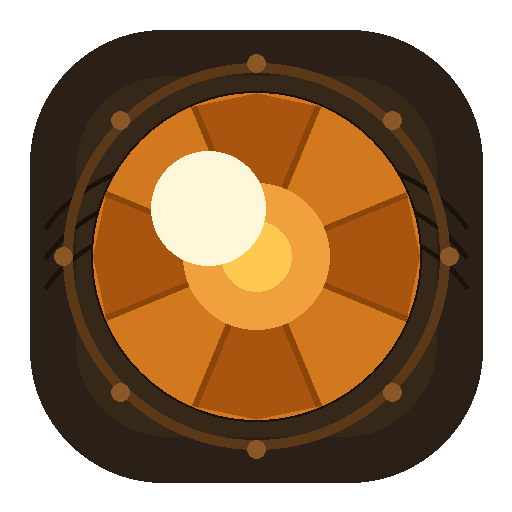
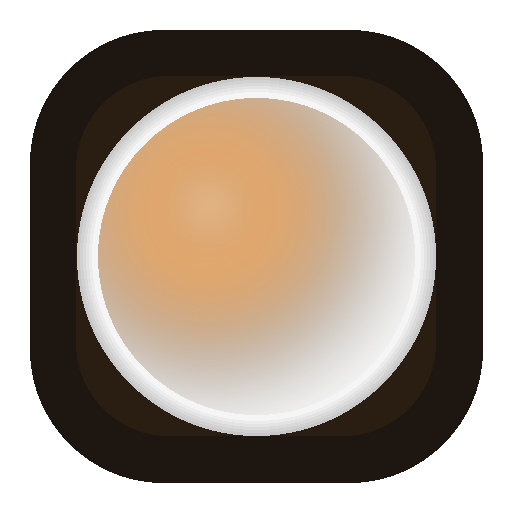
Add files via upload

diff --git a/app.js b/app.js
@@ -73,86 +73,51 @@ onSnapshot(collection(db, COL), snapshot => {
 
 function getProject(id){ return projects.find(p => p.id === id); }
 
-// ── GEM DRAWING — pietra grezza incastonata, stile Legend of Dragoon ──
+// ── GEM DRAWING — sfera cristallo incastonata ──
 function drawGem(canvas, hex){
-  const s=canvas.width;
-  const ctx=canvas.getContext('2d');
-  const cx=s/2, cy=s/2, r=s/2-1;
-  const {r:cr,g:cg,b:cb}=hexToRgb(hex);
+  const s = canvas.width;
+  const ctx = canvas.getContext('2d');
+  const cx = s/2, cy = s/2;
+  const {r:cr, g:cg, b:cb} = hexToRgb(hex);
+  const gr = s/2 * 0.78;
 
-  // Incastonatura in pietra — bordo irregolare scuro, non metallico
-  ctx.beginPath(); ctx.arc(cx,cy,r,0,Math.PI*2);
-  const stone=ctx.createRadialGradient(cx-r*.1,cy-r*.1,r*.55,cx,cy,r);
-  stone.addColorStop(0,'rgba(0,0,0,0)');
-  stone.addColorStop(0.72,`rgba(${Math.max(0,cr-90)},${Math.max(0,cg-90)},${Math.max(0,cb-90)},.55)`);
-  stone.addColorStop(0.88,`rgba(${Math.max(0,cr-120)},${Math.max(0,cg-120)},${Math.max(0,cb-120)},.85)`);
-  stone.addColorStop(1,'rgba(20,14,8,.95)');
-  ctx.fillStyle=stone; ctx.fill();
+  // Corpo cristallo — traslucido
+  const sphere = ctx.createRadialGradient(
+    cx - gr*.28, cy - gr*.30, gr*.04,
+    cx + gr*.12, cy + gr*.18, gr
+  );
+  sphere.addColorStop(0,    `rgba(${Math.min(255,cr+90)},${Math.min(255,cg+85)},${Math.min(255,cb+75)},.55)`);
+  sphere.addColorStop(0.28, `rgba(${cr},${cg},${cb},.50)`);
+  sphere.addColorStop(0.65, `rgba(${Math.max(0,cr-40)},${Math.max(0,cg-38)},${Math.max(0,cb-30)},.60)`);
+  sphere.addColorStop(1,    `rgba(${Math.max(0,cr-70)},${Math.max(0,cg-65)},${Math.max(0,cb-55)},.70)`);
+  ctx.beginPath(); ctx.arc(cx, cy, gr, 0, Math.PI*2);
+  ctx.fillStyle = sphere; ctx.fill();
 
-  // Corpo gemma — colore profondo, non saturato, con variazione interna irregolare
-  const gr=r*0.76;
-  ctx.beginPath(); ctx.arc(cx,cy,gr,0,Math.PI*2);
-  const body=ctx.createRadialGradient(cx-gr*.25,cy-gr*.3,gr*.05,cx+gr*.1,cy+gr*.1,gr);
-  body.addColorStop(0,`rgb(${Math.min(255,cr+55)},${Math.min(255,cg+45)},${Math.min(255,cb+35)})`);
-  body.addColorStop(0.35,`rgb(${cr},${cg},${cb})`);
-  body.addColorStop(0.7,`rgb(${Math.max(0,cr-45)},${Math.max(0,cg-45)},${Math.max(0,cb-40)})`);
-  body.addColorStop(1,`rgb(${Math.max(0,cr-90)},${Math.max(0,cg-85)},${Math.max(0,cb-75)})`);
-  ctx.fillStyle=body; ctx.fill();
-
-  // Faccette — tagli geometrici stile gemma medievale, non troppo precisi
-  const nf=8;
+  // Riflesso principale — luce che attraversa il cristallo
+  const glare = ctx.createRadialGradient(cx-gr*.22, cy-gr*.28, 0, cx-gr*.10, cy-gr*.14, gr*.52);
+  glare.addColorStop(0,   'rgba(255,255,255,.82)');
+  glare.addColorStop(0.25,'rgba(255,255,255,.45)');
+  glare.addColorStop(0.6, 'rgba(255,255,255,.10)');
+  glare.addColorStop(1,   'rgba(255,255,255,0)');
   ctx.save();
-  ctx.beginPath(); ctx.arc(cx,cy,gr,0,Math.PI*2); ctx.clip();
-  for(let i=0;i<nf;i++){
-    const a=(i/nf)*Math.PI*2 - Math.PI/nf;
-    const a2=((i+1)/nf)*Math.PI*2 - Math.PI/nf;
-    const mid=(a+a2)/2;
-    // ogni faccetta alterna luce e ombra in modo irregolare
-    const even=i%2===0;
-    ctx.beginPath();
-    ctx.moveTo(cx,cy);
-    ctx.lineTo(cx+Math.cos(a)*gr, cy+Math.sin(a)*gr);
-    ctx.lineTo(cx+Math.cos(mid)*gr*1.02, cy+Math.sin(mid)*gr*1.02);
-    ctx.lineTo(cx+Math.cos(a2)*gr, cy+Math.sin(a2)*gr);
-    ctx.closePath();
-    ctx.fillStyle=even
-      ? `rgba(0,0,0,${.10+Math.abs(Math.sin(i*1.7))*.08})`
-      : `rgba(255,255,255,${.04+Math.abs(Math.cos(i*1.3))*.05})`;
-    ctx.fill();
-    // linea di separazione faccetta — sottile, come un'incisione
-    ctx.beginPath();
-    ctx.moveTo(cx,cy);
-    ctx.lineTo(cx+Math.cos(a)*gr, cy+Math.sin(a)*gr);
-    ctx.strokeStyle='rgba(0,0,0,.22)';
-    ctx.lineWidth=.7;
-    ctx.stroke();
-  }
+  ctx.beginPath(); ctx.arc(cx, cy, gr, 0, Math.PI*2); ctx.clip();
+  ctx.fillStyle = glare; ctx.fillRect(0,0,s,s);
   ctx.restore();
 
-  // Striatura interna — come venature nella pietra
+  // Riflesso secondario in basso a destra
+  const glare2 = ctx.createRadialGradient(cx+gr*.30, cy+gr*.28, 0, cx+gr*.28, cy+gr*.26, gr*.22);
+  glare2.addColorStop(0,   'rgba(255,255,255,.35)');
+  glare2.addColorStop(1,   'rgba(255,255,255,0)');
   ctx.save();
-  ctx.beginPath(); ctx.arc(cx,cy,gr*.9,0,Math.PI*2); ctx.clip();
-  for(let i=0;i<3;i++){
-    const ang=-0.6+i*.5;
-    ctx.beginPath();
-    ctx.moveTo(cx+Math.cos(ang)*gr*.1, cy+Math.sin(ang)*gr*.1);
-    ctx.lineTo(cx+Math.cos(ang+Math.PI)*gr*.65, cy+Math.sin(ang+Math.PI)*gr*.65);
-    ctx.strokeStyle=`rgba(255,255,255,${.06-.015*i})`;
-    ctx.lineWidth=1.5-i*.3;
-    ctx.stroke();
-  }
+  ctx.beginPath(); ctx.arc(cx, cy, gr, 0, Math.PI*2); ctx.clip();
+  ctx.fillStyle = glare2; ctx.fillRect(0,0,s,s);
   ctx.restore();
 
-  // Riflesso opaco — non un punto luminoso ma una zona più chiara, come cera
-  const hx=cx-gr*.22, hy=cy-gr*.26;
-  const hi=ctx.createRadialGradient(hx,hy,0,hx,hy,gr*.42);
-  hi.addColorStop(0,`rgba(255,252,240,.32)`);
-  hi.addColorStop(0.6,`rgba(255,248,220,.08)`);
-  hi.addColorStop(1,'rgba(255,255,255,0)');
-  ctx.save();
-  ctx.beginPath(); ctx.arc(cx,cy,gr,0,Math.PI*2); ctx.clip();
-  ctx.fillStyle=hi; ctx.fillRect(0,0,s,s);
-  ctx.restore();
+  // Alone incastonatura
+  ctx.beginPath(); ctx.arc(cx, cy, gr, 0, Math.PI*2);
+  ctx.strokeStyle = 'rgba(0,0,0,.42)';
+  ctx.lineWidth = s * 0.058;
+  ctx.stroke();
 }
 function hexToRgb(hex){
   const r=parseInt(hex.slice(1,3),16),g=parseInt(hex.slice(3,5),16),b=parseInt(hex.slice(5,7),16);

diff --git a/index.html b/index.html
@@ -50,7 +50,7 @@ body{background:var(--sand);color:var(--ink);font-family:'Nunito',sans-serif;fon
 .home-scroll{flex:1;overflow-y:auto;padding:20px 18px calc(20px + var(--safe-bot))}
 .project-card{background:var(--white);border-radius:var(--r);padding:16px;margin-bottom:12px;cursor:pointer;box-shadow:var(--shadow);display:flex;align-items:center;gap:14px;border:1.5px solid var(--sand2);transition:border-color .2s,box-shadow .2s}
 .project-card:active{border-color:var(--coral);box-shadow:var(--shadow-lg)}
-.card-dot{width:38px;height:38px;border-radius:50%;flex-shrink:0;position:relative;border:2px solid rgba(0,0,0,.18);box-shadow:0 2px 6px rgba(0,0,0,.25),inset 0 1px 2px rgba(255,255,255,.35),inset 0 -2px 4px rgba(0,0,0,.25)}
+.card-dot{width:38px;height:38px;border-radius:50%;flex-shrink:0;box-shadow:inset 0 2px 4px rgba(255,255,255,.15),inset 0 -2px 4px rgba(0,0,0,.2),0 2px 6px rgba(0,0,0,.18)}
 .card-info{flex:1;min-width:0}
 .card-title{font-size:15px;font-weight:700;white-space:nowrap;overflow:hidden;text-overflow:ellipsis;color:var(--ink)}
 .card-meta{font-size:12px;color:var(--ink3);margin-top:2px;font-weight:500}